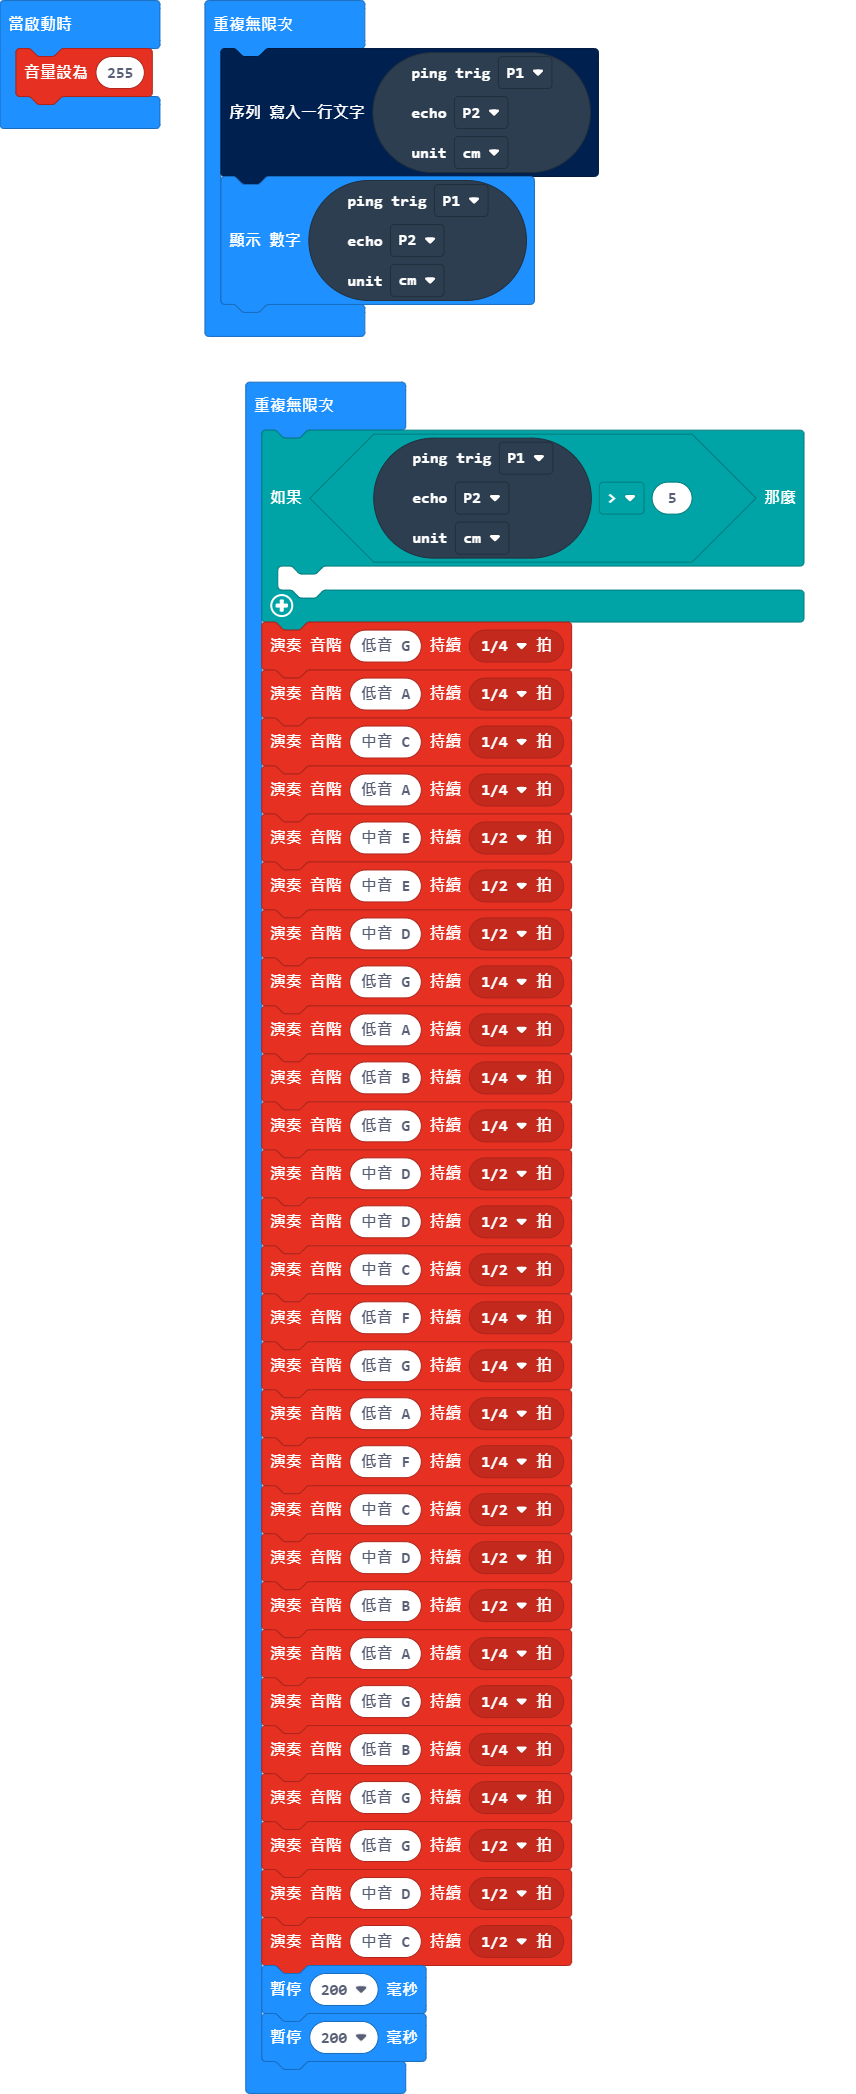
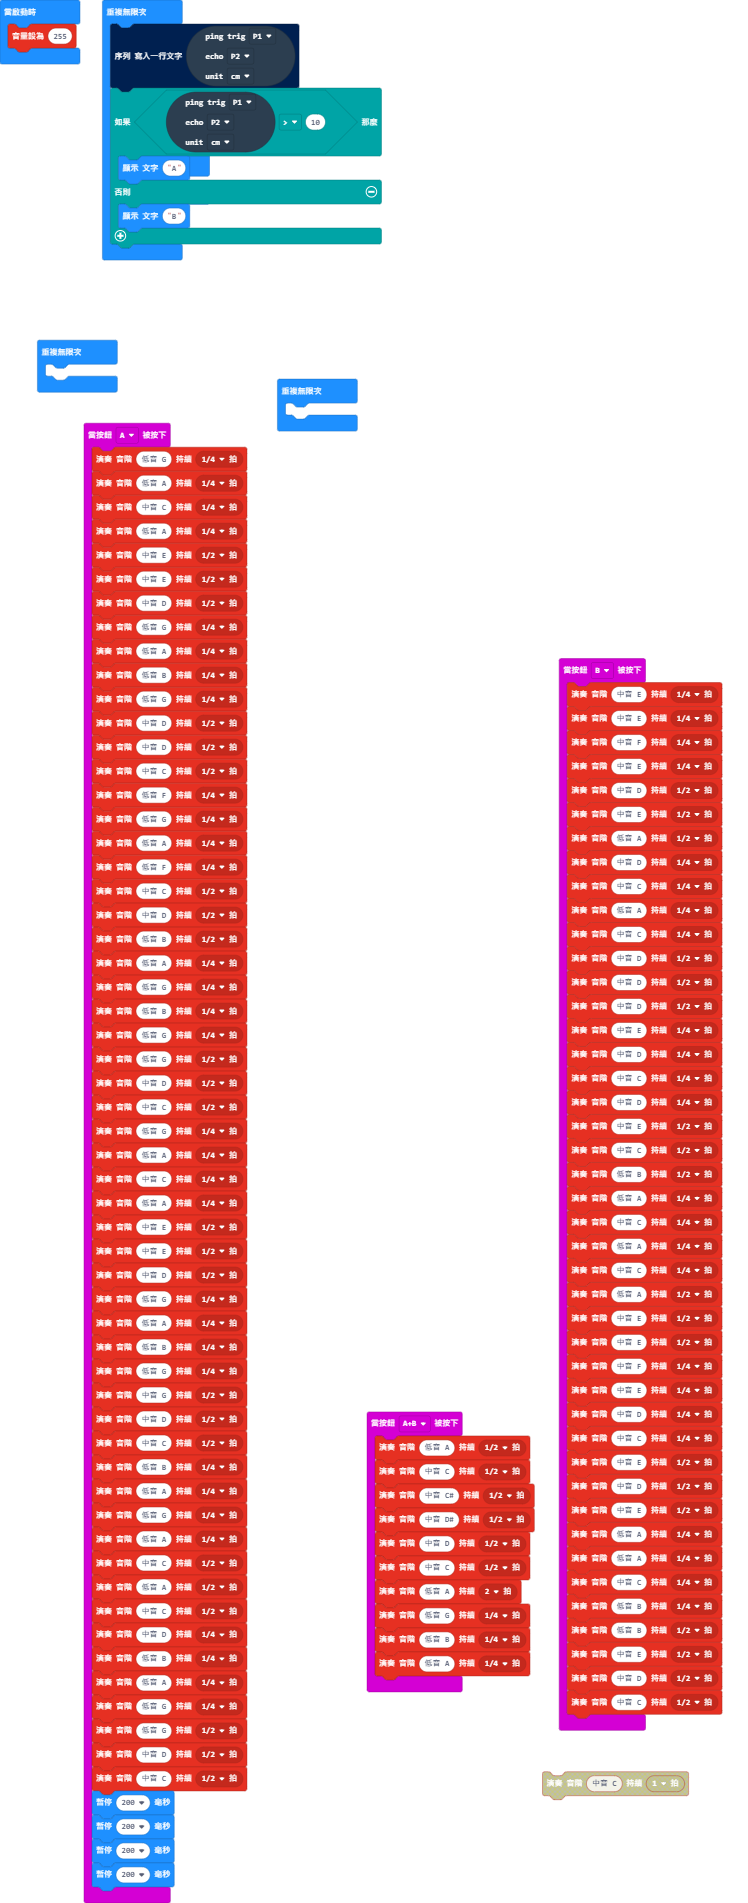
更新 main.blocks, main.ts

diff --git a/main.ts b/main.ts
@@ -1,24 +1,4 @@
-music.setVolume(255)
-basic.forever(function () {
-    serial.writeLine("" + (sonar.ping(
-    DigitalPin.P1,
-    DigitalPin.P2,
-    PingUnit.Centimeters
-    )))
-    basic.showNumber(sonar.ping(
-    DigitalPin.P1,
-    DigitalPin.P2,
-    PingUnit.Centimeters
-    ))
-})
-basic.forever(function () {
-    if (sonar.ping(
-    DigitalPin.P1,
-    DigitalPin.P2,
-    PingUnit.Centimeters
-    ) > 5) {
-    	
-    }
+input.onButtonPressed(Button.A, function () {
     music.playTone(196, music.beat(BeatFraction.Quarter))
     music.playTone(220, music.beat(BeatFraction.Quarter))
     music.playTone(262, music.beat(BeatFraction.Quarter))
@@ -47,6 +27,119 @@ basic.forever(function () {
     music.playTone(196, music.beat(BeatFraction.Half))
     music.playTone(294, music.beat(BeatFraction.Half))
     music.playTone(262, music.beat(BeatFraction.Half))
+    music.playTone(196, music.beat(BeatFraction.Quarter))
+    music.playTone(220, music.beat(BeatFraction.Quarter))
+    music.playTone(262, music.beat(BeatFraction.Quarter))
+    music.playTone(220, music.beat(BeatFraction.Quarter))
+    music.playTone(330, music.beat(BeatFraction.Half))
+    music.playTone(330, music.beat(BeatFraction.Half))
+    music.playTone(294, music.beat(BeatFraction.Half))
+    music.playTone(196, music.beat(BeatFraction.Quarter))
+    music.playTone(220, music.beat(BeatFraction.Quarter))
+    music.playTone(247, music.beat(BeatFraction.Quarter))
+    music.playTone(196, music.beat(BeatFraction.Quarter))
+    music.playTone(392, music.beat(BeatFraction.Half))
+    music.playTone(294, music.beat(BeatFraction.Half))
+    music.playTone(262, music.beat(BeatFraction.Half))
+    music.playTone(247, music.beat(BeatFraction.Quarter))
+    music.playTone(220, music.beat(BeatFraction.Quarter))
+    music.playTone(196, music.beat(BeatFraction.Quarter))
+    music.playTone(220, music.beat(BeatFraction.Quarter))
+    music.playTone(262, music.beat(BeatFraction.Half))
+    music.playTone(220, music.beat(BeatFraction.Half))
+    music.playTone(262, music.beat(BeatFraction.Half))
+    music.playTone(294, music.beat(BeatFraction.Quarter))
+    music.playTone(247, music.beat(BeatFraction.Quarter))
+    music.playTone(220, music.beat(BeatFraction.Quarter))
+    music.playTone(196, music.beat(BeatFraction.Quarter))
+    music.playTone(196, music.beat(BeatFraction.Half))
+    music.playTone(294, music.beat(BeatFraction.Half))
+    music.playTone(262, music.beat(BeatFraction.Half))
     basic.pause(200)
     basic.pause(200)
+    basic.pause(200)
+    basic.pause(200)
+})
+input.onButtonPressed(Button.AB, function () {
+    music.playTone(220, music.beat(BeatFraction.Half))
+    music.playTone(262, music.beat(BeatFraction.Half))
+    music.playTone(277, music.beat(BeatFraction.Half))
+    music.playTone(311, music.beat(BeatFraction.Half))
+    music.playTone(294, music.beat(BeatFraction.Half))
+    music.playTone(262, music.beat(BeatFraction.Half))
+    music.playTone(220, music.beat(BeatFraction.Double))
+    music.playTone(196, music.beat(BeatFraction.Quarter))
+    music.playTone(247, music.beat(BeatFraction.Quarter))
+    music.playTone(220, music.beat(BeatFraction.Quarter))
+})
+input.onButtonPressed(Button.B, function () {
+    music.playTone(330, music.beat(BeatFraction.Quarter))
+    music.playTone(330, music.beat(BeatFraction.Quarter))
+    music.playTone(349, music.beat(BeatFraction.Quarter))
+    music.playTone(330, music.beat(BeatFraction.Quarter))
+    music.playTone(294, music.beat(BeatFraction.Half))
+    music.playTone(330, music.beat(BeatFraction.Half))
+    music.playTone(220, music.beat(BeatFraction.Half))
+    music.playTone(294, music.beat(BeatFraction.Quarter))
+    music.playTone(262, music.beat(BeatFraction.Quarter))
+    music.playTone(220, music.beat(BeatFraction.Quarter))
+    music.playTone(262, music.beat(BeatFraction.Quarter))
+    music.playTone(294, music.beat(BeatFraction.Half))
+    music.playTone(294, music.beat(BeatFraction.Half))
+    music.playTone(294, music.beat(BeatFraction.Half))
+    music.playTone(330, music.beat(BeatFraction.Quarter))
+    music.playTone(294, music.beat(BeatFraction.Quarter))
+    music.playTone(262, music.beat(BeatFraction.Quarter))
+    music.playTone(294, music.beat(BeatFraction.Quarter))
+    music.playTone(330, music.beat(BeatFraction.Half))
+    music.playTone(262, music.beat(BeatFraction.Half))
+    music.playTone(247, music.beat(BeatFraction.Half))
+    music.playTone(220, music.beat(BeatFraction.Quarter))
+    music.playTone(262, music.beat(BeatFraction.Quarter))
+    music.playTone(220, music.beat(BeatFraction.Quarter))
+    music.playTone(262, music.beat(BeatFraction.Quarter))
+    music.playTone(220, music.beat(BeatFraction.Half))
+    music.playTone(330, music.beat(BeatFraction.Half))
+    music.playTone(330, music.beat(BeatFraction.Half))
+    music.playTone(349, music.beat(BeatFraction.Quarter))
+    music.playTone(330, music.beat(BeatFraction.Quarter))
+    music.playTone(294, music.beat(BeatFraction.Quarter))
+    music.playTone(262, music.beat(BeatFraction.Quarter))
+    music.playTone(330, music.beat(BeatFraction.Half))
+    music.playTone(294, music.beat(BeatFraction.Half))
+    music.playTone(330, music.beat(BeatFraction.Half))
+    music.playTone(220, music.beat(BeatFraction.Quarter))
+    music.playTone(220, music.beat(BeatFraction.Quarter))
+    music.playTone(262, music.beat(BeatFraction.Quarter))
+    music.playTone(247, music.beat(BeatFraction.Quarter))
+    music.playTone(247, music.beat(BeatFraction.Half))
+    music.playTone(330, music.beat(BeatFraction.Half))
+    music.playTone(294, music.beat(BeatFraction.Half))
+    music.playTone(262, music.beat(BeatFraction.Half))
+})
+music.setVolume(255)
+basic.forever(function () {
+    serial.writeLine("" + (sonar.ping(
+    DigitalPin.P1,
+    DigitalPin.P2,
+    PingUnit.Centimeters
+    )))
+    if (sonar.ping(
+    DigitalPin.P1,
+    DigitalPin.P2,
+    PingUnit.Centimeters
+    ) > 10) {
+        basic.showString("A")
+    } else {
+        basic.showString("B")
+    }
+})
+basic.forever(function () {
+	
+})
+basic.forever(function () {
+	
+})
+basic.forever(function () {
+	
 })
